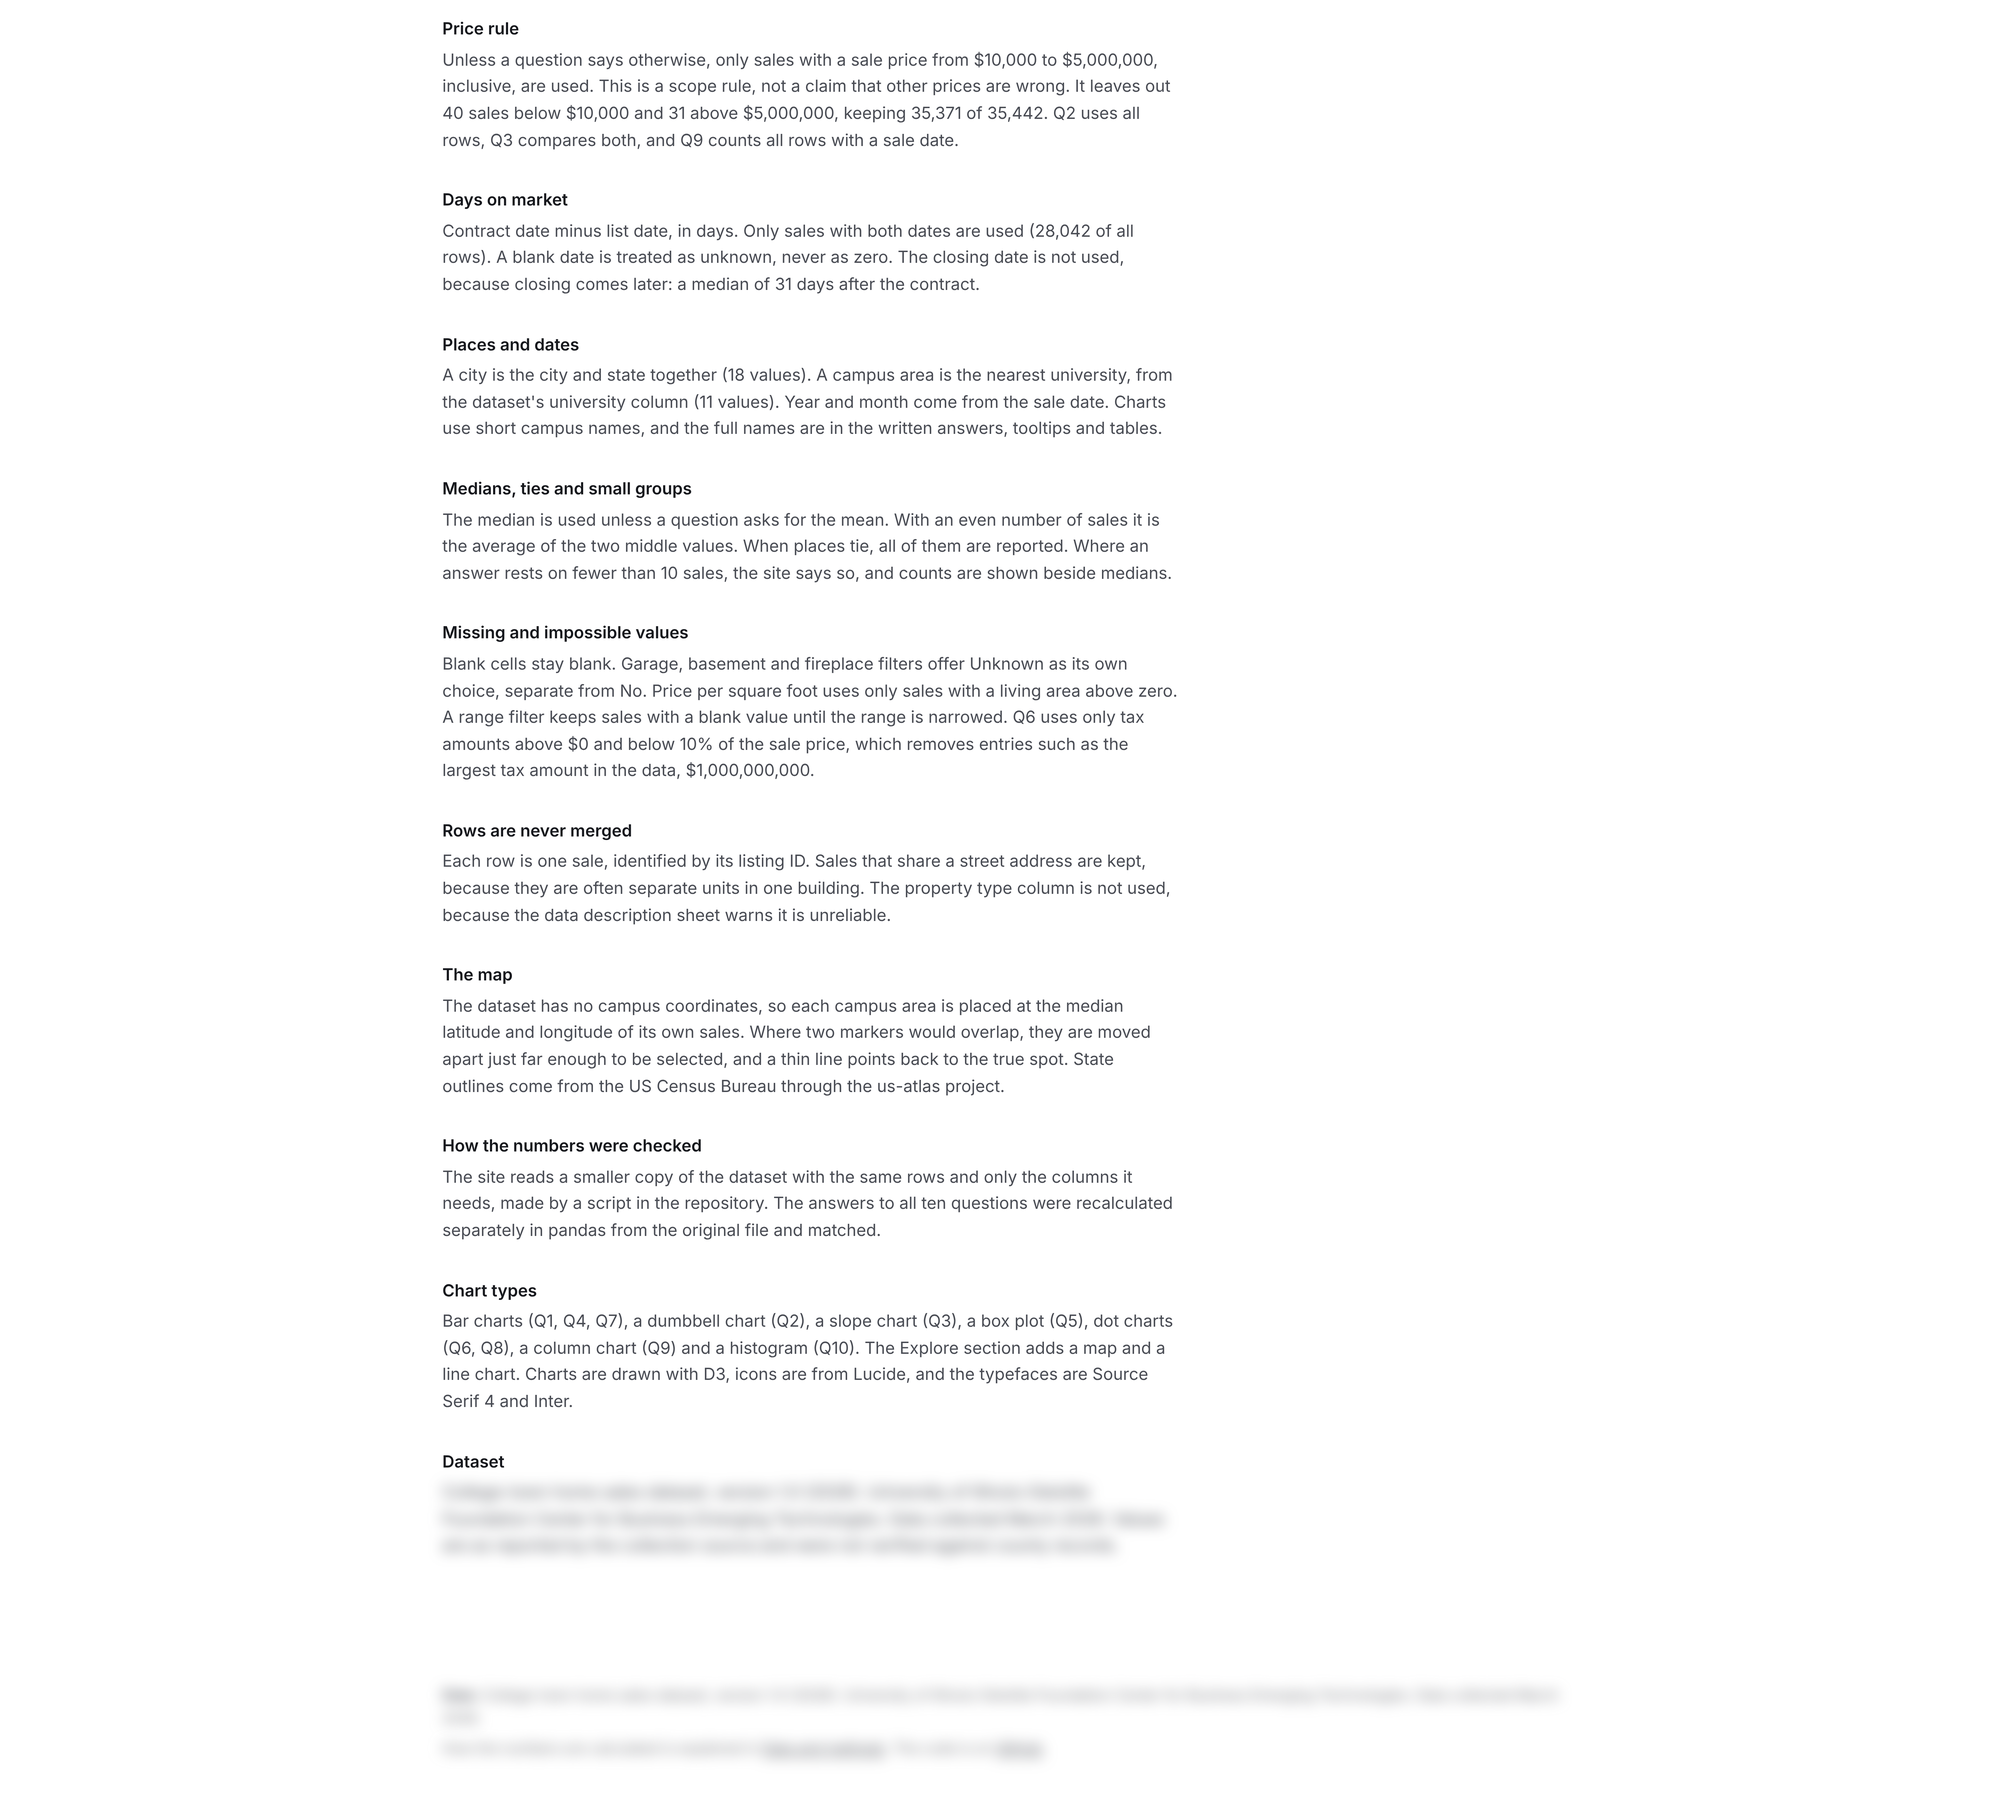
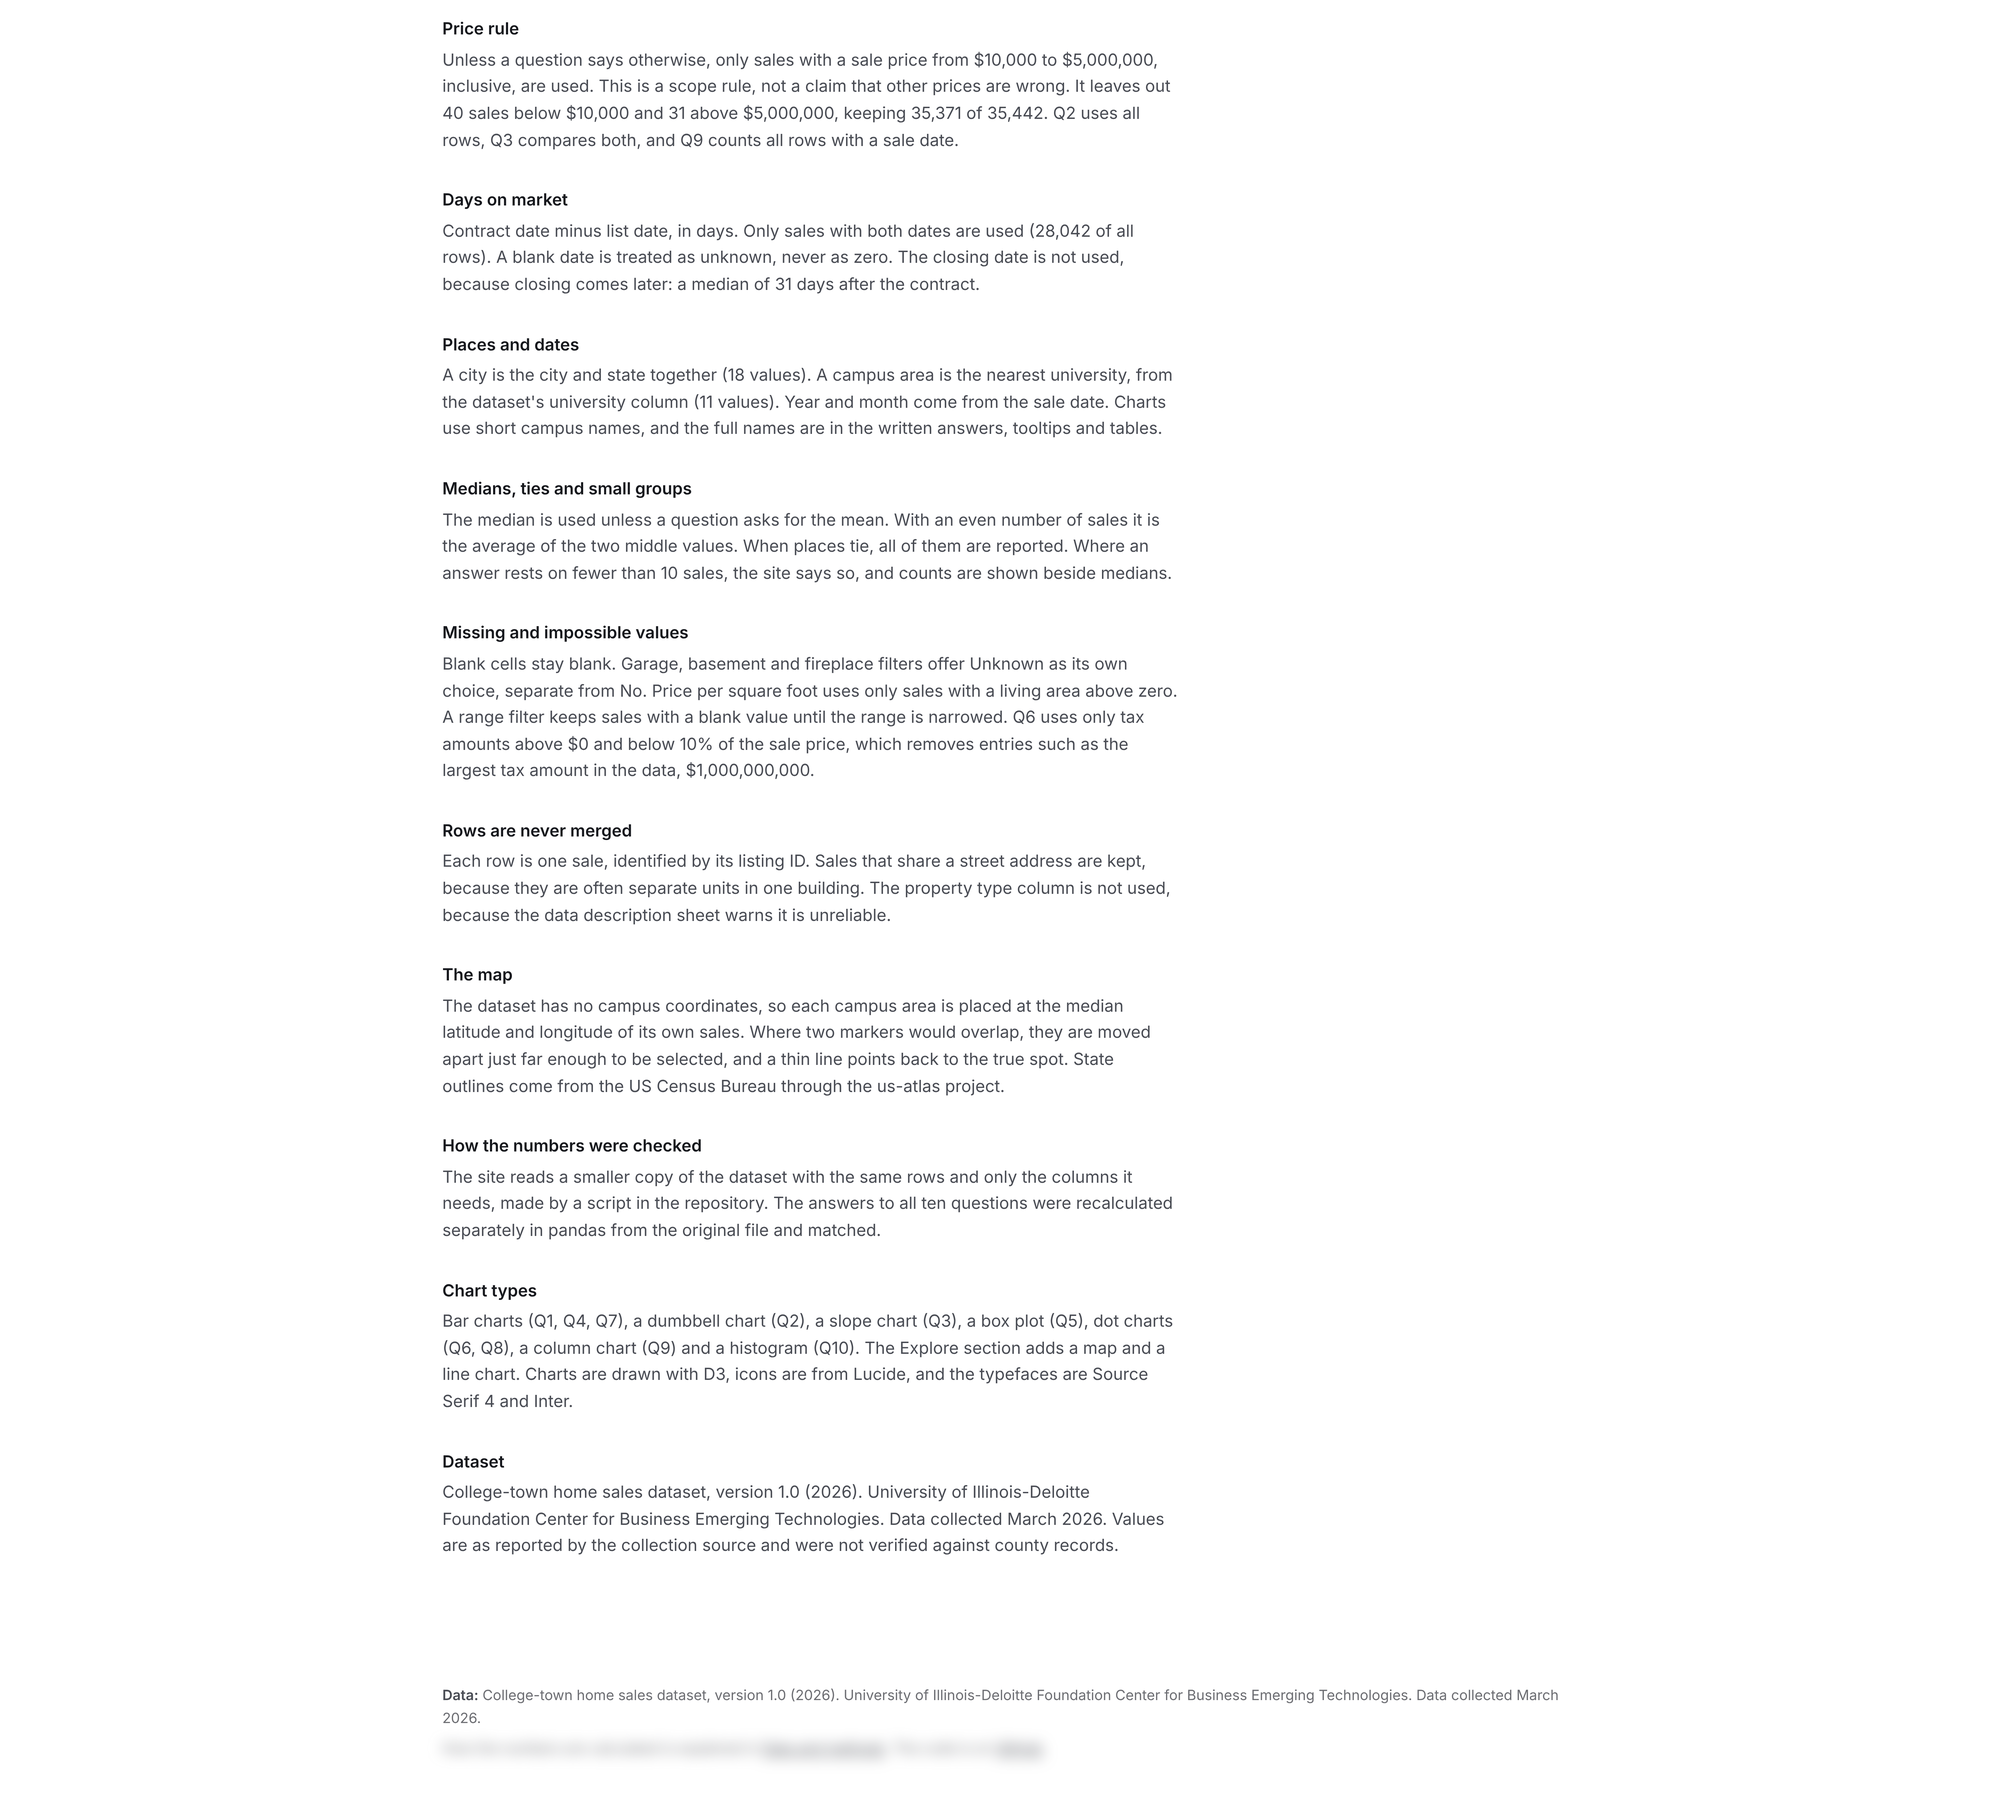
Show the dataset citation instead of blurring it
The dataset citation is now readable in the Data and methods section's
Dataset card and in the footer. The footer line that links to the site's
code on GitHub stays blurred. Recaptured the methods shot and the last
page tile; the layout is unchanged. The OCR check no longer fails on the
data source's name, and the README says what is still hidden.

Claude-Session: https://claude.ai/code/session_01XcuVekgDtsJrRSYFcpyC2Q

Changed region(s): [[0.2188, 0.81, 0.5938, 0.8723], [0.2188, 0.9035, 0.25, 0.9346]]

diff --git a/scripts/check-render.py b/scripts/check-render.py
@@ -8,7 +8,7 @@ Needs FFmpeg and Tesseract (apt-get install tesseract-ocr).
 
 Checks, in every version:
   - nothing that leads to the site or its repository: domain, username, repository name, a URL,
-    GitHub, the dataset's source institution
+    GitHub
 In the learner version also:
   - none of the Q3 to Q10 answer values from the check list
 In the instructor version, the same answer values are expected to be found (a check that OCR works).
@@ -33,7 +33,6 @@ ALWAYS = {
     "username": r"subwaymatch",
     "repository name": r"bdi\s?475|home-sales-sample",
     "course or school system": r"canvas|illinois\.edu",
-    "dataset source": r"deloitte|foundation center|emerging technologies",
 }
 ANSWERS = {
     "Q3": r"9th to 11th|10th to 9th|11th to 10th|\$455,639|\$474,550",
@@ -85,7 +84,7 @@ if hits:
     for h in hits:
         print(f"  IDENTIFYING  {h['time']:7.1f}s  {h['what']}: {h['text']}")
 else:
-    print("  no domain, URL, username, repository name or dataset source found")
+    print("  no domain, URL, username or repository name found")
 if mode == "learner":
     if answer_hits:
         bad = True

diff --git a/README.md b/README.md
@@ -91,7 +91,7 @@ python3 scripts/check-render.py renders/sample-site-demo.mp4 learner
 python3 scripts/check-render.py renders/sample-site-demo-instructor.mp4 instructor
 ```
 
-The script samples one frame a second, reads it with OCR (Tesseract: `apt-get install tesseract-ocr`), and fails if it finds the site's domain, a URL, the username, the repository name, GitHub or the dataset's source institution. For the learner version it also fails on any Q3 to Q10 answer value from the check list. For the instructor version it lists the answer values it found, which shows that the OCR works. OCR cannot prove that nothing is there, so also step through the video by eye.
+The script samples one frame a second, reads it with OCR (Tesseract: `apt-get install tesseract-ocr`), and fails if it finds the site's domain, a URL, the username, the repository name or GitHub. The dataset citation is allowed. For the learner version it also fails on any Q3 to Q10 answer value from the check list. For the instructor version it lists the answer values it found, which shows that the OCR works. OCR cannot prove that nothing is there, so also step through the video by eye.
 
 ## Recapture the site
 
@@ -122,7 +122,7 @@ npm run check
 
 The capture script blurs parts of the page inside the browser before each screenshot, so the layout stays real:
 
-- In every capture: the footer and the dataset citation card. They name the data source and link to the site's code, and nothing in the video may lead back to the site or its repository.
+- In every capture: the footer line that links to the site's code on GitHub, since nothing in the video may lead back to the site or its repository. The dataset citation, in the footer and in the Data and methods section, stays readable.
 - In the learner copies (`*.learner.png`): the Q3 to Q10 written answers, the data labels on their charts, the rank labels on the Q3 slope chart, and the insights text.
 
 The video never shows the browser's address bar, tabs, the site's domain, the repository name or a username. Feature 5 (shareable filters) shows only the query string, in a box drawn by the video.
